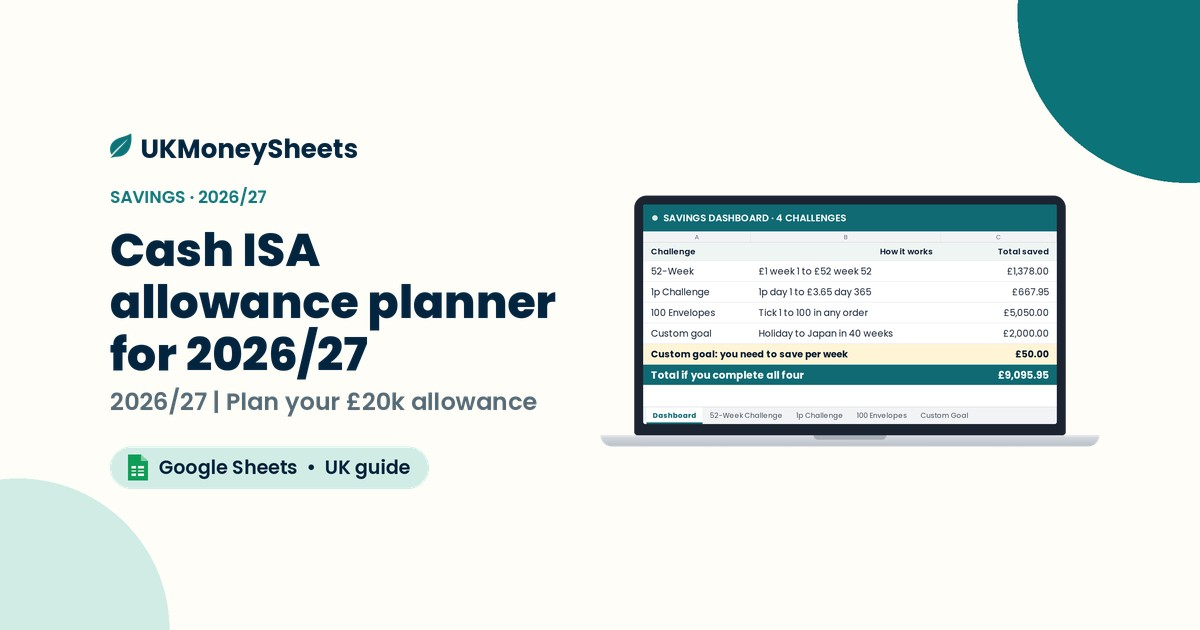
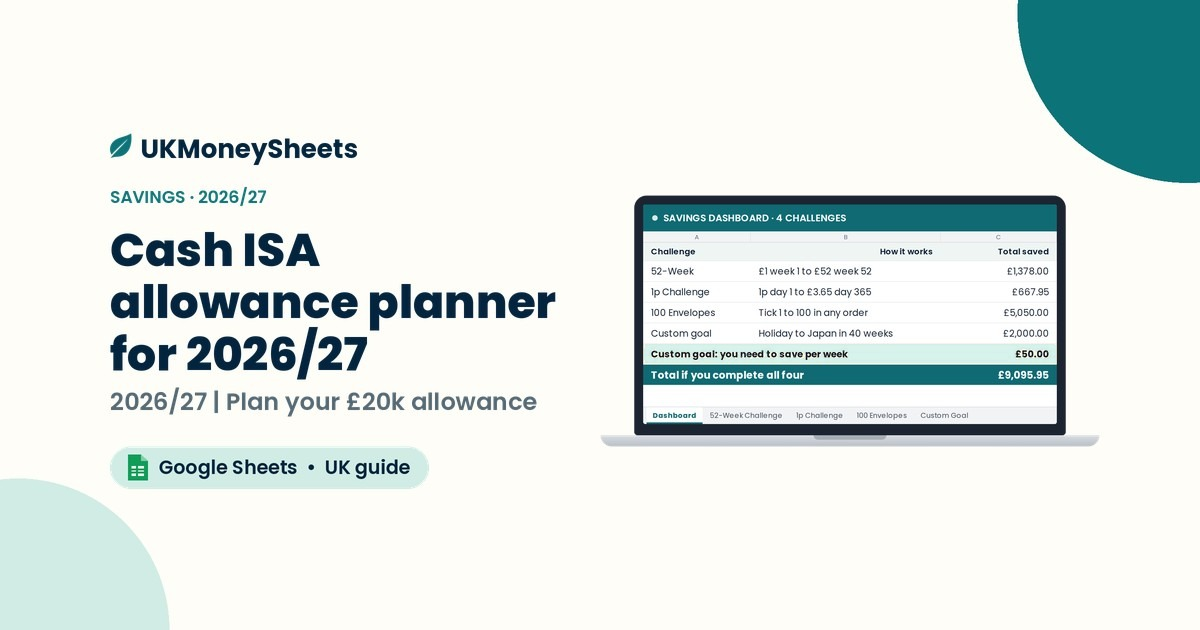
Cash ISA card and OG: mint highlight row (brand fix 2), v=3

Changed region(s): [[0.5242, 0.5429, 0.8942, 0.6032]]

diff --git a/src/lib/guides.ts b/src/lib/guides.ts
@@ -124,9 +124,9 @@ export const guides: GuideMeta[] = [
       "The planned £12k cash ISA cut for under-65s is cancelled, so the cash ISA limit stays £20,000 from April 2027. Plan your allowance in Google Sheets.",
     category: "Savings",
     featured: true,
-    image: "/guides/cash-isa-12k-under-65-planner.jpg?v=2",
+    image: "/guides/cash-isa-12k-under-65-planner.jpg?v=3",
     imageAlt: "Cash ISA allowance planner for 2026/27: Google Sheets dashboard preview, sample data",
-    ogImage: "/og/cash-isa-12k-under-65-planner.jpg?v=2",
+    ogImage: "/og/cash-isa-12k-under-65-planner.jpg?v=3",
     ogImageAlt: "Cash ISA allowance planner for 2026/27 \u2014 UkMoneySheets Google Sheets guide",
     showHeaderImage: false,
     inGuideImages: {
